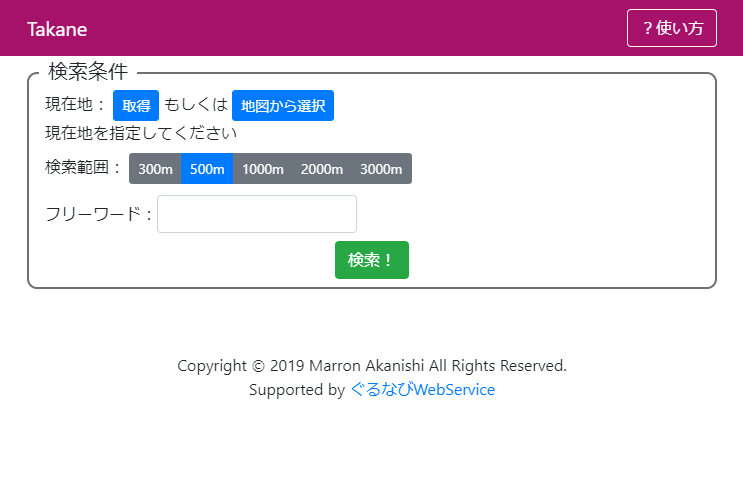
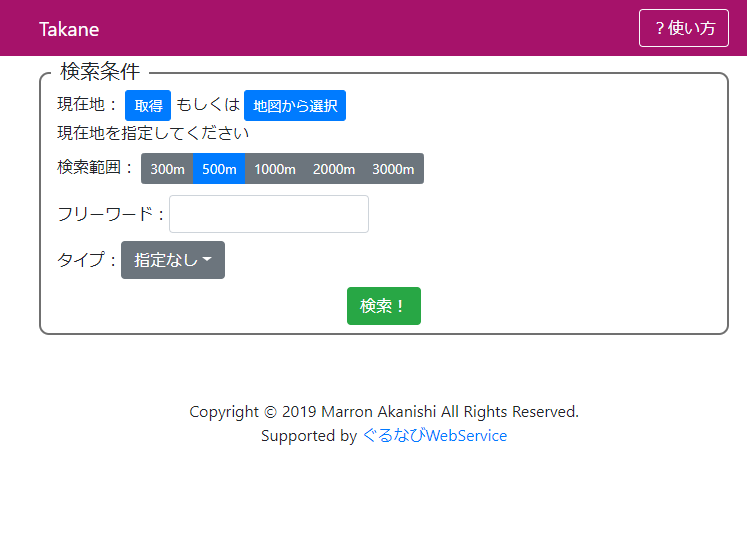
タイプ対応

Changed region(s): [[0.0, 0.0, 1.0, 0.616], [0.2476, 0.7084, 0.7739, 0.8316]]

diff --git a/js/script.js b/js/script.js
@@ -57,10 +57,23 @@ const search_vm = new Vue({
       { id: 5, name: "3000m" },
     ],
     area_id: 2,
+    type_list: [
+      { category_l_code: null, category_l_name: "指定なし"}
+    ],
+    type_code: null,
+    type_name: "指定なし",
     latitude: null,
     longitude: null,
+    map_zoom: 7,
   },
   methods: {
+    window:onload = async () => {
+      const resp = await fetch(`
+        https://api.gnavi.co.jp/master/CategoryLargeSearchAPI/v3/?keyid=${GNAVI_API}
+      `);
+      const json = await resp.json();
+      search_vm.type_list = search_vm.type_list.concat(json.category_l);
+    },
     _getPos: () => {
       navigator.geolocation.getCurrentPosition(
         // 取得成功した場合
@@ -92,10 +105,13 @@ const search_vm = new Vue({
       search_vm.area_id = index;
     },
     _openMapModal: () => {
+      // 大阪にするか指定されているか
+      const lat = search_vm.latitude || 34.70238529947451;
+      const lng = search_vm.longitude || 135.49552602848348;
       // マップの初期化
       const map = new google.maps.Map(document.querySelector('#search-map'), {
-        zoom: 7,
-        center: { lat: 34.72572149676903, lng: 135.52627421545128 } // 大阪
+        zoom: search_vm.map_zoom,
+        center: { lat: lat, lng: lng }
       });
       let marker = new google.maps.Marker();
       // クリックイベントを追加
@@ -103,6 +119,7 @@ const search_vm = new Vue({
         // 座標取得
         search_vm.latitude = e.latLng.lat();
         search_vm.longitude = e.latLng.lng();
+        search_vm.map_zoom = map.getZoom();
         // マーカーを設置
         marker.setPosition(e.latLng);
         marker.setMap(map);
@@ -112,6 +129,10 @@ const search_vm = new Vue({
     },
     _setPos: () => {
       search_vm.position = "緯度: " + search_vm.latitude + ", 経度: " + search_vm.longitude;
+    },
+    _setType: (code, name) => {
+      search_vm.type_code = code;
+      search_vm.type_name = name;
     }
   }
 });
@@ -124,10 +145,13 @@ const getRestSearch = async (page) => {
     return;
   }
   // APIにアクセス
-  const freeword = encodeURIComponent(document.querySelector("#freeword").value.replace(/ /g,','));
-  const resp = await fetch(`
-    https://api.gnavi.co.jp/RestSearchAPI/v3/?keyid=${GNAVI_API}&latitude=${search_vm.latitude}&longitude=${search_vm.longitude}&range=${search_vm.area_id}&hit_per_page=${GET_MAX}&freeword=${freeword}
-  `);
+  let url = `https://api.gnavi.co.jp/RestSearchAPI/v3/?keyid=${GNAVI_API}&latitude=${search_vm.latitude}&longitude=${search_vm.longitude}&range=${search_vm.area_id}&hit_per_page=${GET_MAX}`
+  if (document.querySelector("#freeword").value != "") {
+    const freeword = encodeURIComponent(document.querySelector("#freeword").value.replace(/ /g, ','));
+    url += `&freeword=${freeword}`
+  }
+  if (search_vm.type_code != null) url += `&category_l=${search_vm.type_code}`
+  const resp = await fetch(url);
   const json = await resp.json();
   console.log(json);
   if (json.error != null){

diff --git a/index.html b/index.html
@@ -22,7 +22,7 @@
     <div class="container">
       <a class="navbar-brand" href="#">Takane</a>
       <div class="navbar-nav">
-        <button type="button" class="btn btn-outline-light" onclick="location.href = '/help.html'">？使い方</button>
+        <button type="button" class="btn btn-outline-light" onclick="location.href='help.html'">？使い方</button>
       </div>
     </div>
   </nav>
@@ -43,14 +43,20 @@
         <div id="search-map" style="width:100%; height:400px;"></div>
       </b-modal>
       <div id="search-area" class="mb-2">
-        <label for="area-dropdown">検索範囲：</label>
-        <div class="btn-group btn-group-sm" role="group" aria-label="area-list">
+        <label for="area-list">検索範囲：</label>
+        <div class="btn-group btn-group-sm" role="group" id="area-list">
           <button v-for="radius in area_radius" type="button" v-on:click="_setArea(radius.id)" v-bind:class="['btn', area_id == radius.id ? 'btn-primary' : 'btn-secondary']">{{radius.name}}</button>
         </div>
       </div>
       <div class="mb-2 form-inline">
         <label for="freeword">フリーワード：</label>
         <input type="text" id="freeword" class="form-control">
+      </div>
+      <div class="mb-2 form-inline">
+        <label for="type-sel">タイプ：</label>
+        <b-dropdown id="type-sel" v-bind:text="type_name">
+          <b-dropdown-item v-for="type in type_list" v-on:click="_setType(type.category_l_code, type.category_l_name)">{{type.category_l_name}}</b-dropdown-item>
+        </b-dropdown>
       </div>
       <div style="text-align: center;">
         <button class="btn btn-success" onclick="getRestSearch()">検索！</button>

diff --git a/help.html b/help.html
@@ -28,7 +28,7 @@
   <!-- ナビ -->
   <nav class="navbar navbar-dark" style="background-color: #a6126a;">
     <div class="container">
-      <a class="navbar-brand" href="/index.html">Takane</a>
+      <a class="navbar-brand" href="index.html">Takane</a>
       <div class="navbar-nav">
         <button type="button" class="btn btn-outline-light">？使い方</button>
       </div>
@@ -54,7 +54,8 @@
       マップが表示されますので、現在地の座標を指定してください。マーカーが表示されれば指定できているので「OK」を押してください。<br>
       <img src="images/search_map.png" /><br>
       検索範囲は現在地から半径何mの範囲で検索するかを指定します。初期状態では500mとなっています。<br>
-      フリーワードはジャンルなどを自由に入力出来ます。<br>
+      フリーワードはキーワードを自由に入力出来ます。<br>
+      タイプでは検索したい店舗のタイプを指定できます。<br>
       最後に「検索！」ボタンを押すことで検索を行います。
     </p>
     <h4>2. 検索結果一覧</h4>
